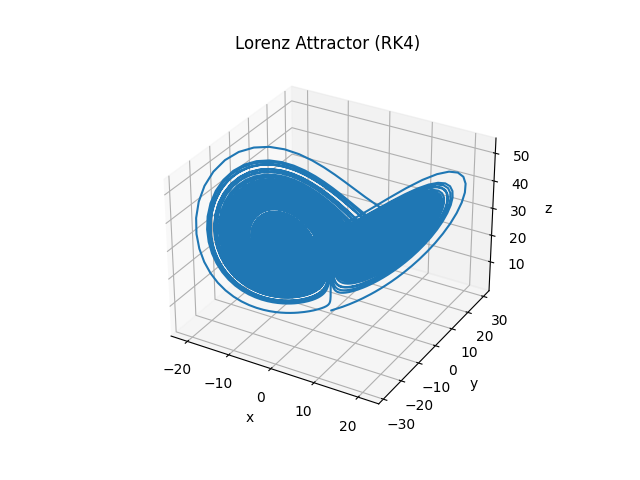
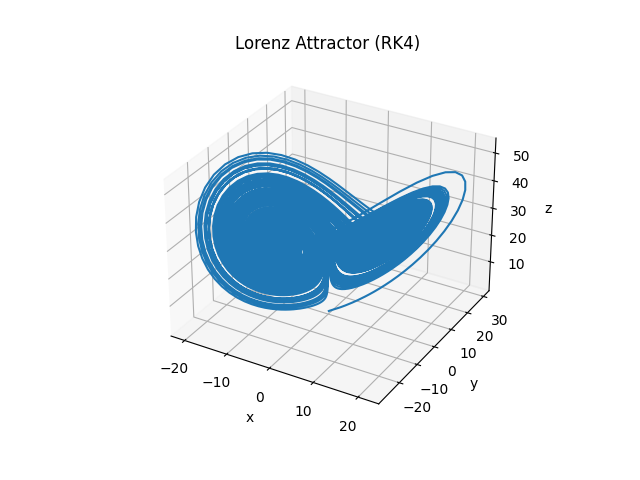
Works

diff --git a/Lorenz/LorenzPy.py b/Lorenz/LorenzPy.py
@@ -7,6 +7,7 @@ import matplotlib.pyplot as plt
 from mpl_toolkits.mplot3d import Axes3D
 #from sympy.abc import x,y,z
 
+
 class LorenzAttractor:
 
     # Lorenz attractor equations
@@ -17,7 +18,8 @@ class LorenzAttractor:
         dotZ = x*y - beta*z         # z' = x*y-beta*z
         return dotX, dotY, dotZ
 
-    # using scipy.integrate (solve_ivp) 
+    # Using scipy.integrate (solve_ivp) ==================================================================================================
+
     def OdeLorenz(self,x0,y0,z0, tmax,n, sigma, beta, rho,WIDTH, HEIGHT, DPI): 
         nSol = solve_ivp(self.Lorenz, (0,tmax), (x0,y0,z0), args = (sigma, beta, rho), dense_output=True)
         t = np.linspace(0, tmax,n)
@@ -40,7 +42,7 @@ class LorenzAttractor:
         plt.savefig('myLorenz.png', dpi=DPI)
         plt.show()      
         
-    # Runge-Kutta 4th order
+    # Runge-Kutta 4th order =============================================================================================================
 
     def L4rk(self,x,y,z, sigma, beta, rho):
         dotX = sigma * (y - x)      # x' = sigma*(y-x)
@@ -48,33 +50,72 @@ class LorenzAttractor:
         dotZ = x*y - beta*z         # z' = x*y-beta*z
         return dotX, dotY, dotZ
   
-    def Rk4(self,h,N,sigma, beta, rho):
-        xs = np.empty((N+1,))
-        ys = np.empty((N+1,))
-        zs = np.empty((N+1,))
+    def Euler(self,h,N,sigma, beta, rho):
+        xe = np.empty((N+1,))
+        ye = np.empty((N+1,))
+        ze = np.empty((N+1,))
 
-        xs[0], ys[0], zs[0] = (0.1,0.1,0.1)
+        xe[0], ye[0], ze[0] = (0.1,0.1,0.1)
 
         for i in range(N):
-          x_dot, y_dot, z_dot = self.L4rk(xs[i], ys[i], zs[i],sigma, beta, rho)
-          xs[i+1] = xs[i] + (x_dot*h)
-          ys[i+1] = ys[i] + (y_dot*h)
-          zs[i+1] = zs[i] + (z_dot*h)
+          x_dot, y_dot, z_dot = self.L4rk(xe[i], ye[i], ze[i],sigma, beta, rho)
+          xe[i+1] = xe[i] + (x_dot*h)
+          ye[i+1] = ye[i] + (y_dot*h)
+          ze[i+1] = ze[i] + (z_dot*h)
 
         fig = plt.figure()
         ax = fig.gca(projection = '3d')
 
-        ax.plot(xs, ys, zs)
+        ax.plot(xe, ye, ze)
+        ax.set_xlabel('x')
+        ax.set_ylabel('y')
+        ax.set_zlabel('z')
+        ax.set_title('Lorenz Attractor (Euler)')
+        plt.savefig('LorenzEuler.png', dpi=100)
+        plt.show()
+        # 'https://www.youtube.com/watch?v=kAvJRF9BeiA'
+
+    # Euler Method ======================================================================================================================
+            
+    def RK4(self, N,h, sigma, beta,rho):
+        xrk4 = np.empty((N+1,)) # prealojamos
+        yrk4 = np.empty((N+1,))
+        zrk4 = np.empty((N+1,))
+
+        xrk4[0], yrk4[0], zrk4[0] = (0.1,0.1,0.1)
+
+        for i in range(N):
+          x_dot, y_dot, z_dot = self.L4rk(xrk4[i],  yrk4[i], zrk4[i],sigma, beta, rho)
+         
+          k11 = x_dot
+          k21 = x_dot + 0.5*h*k11
+          k31 = x_dot + 0.5*h*k21
+          k41 = x_dot +h*k31
+          xrk4[i+1] = xrk4[i] + (h/6)*(k11 + 2*k21 + 2*k31 + k41)
+          
+          k12 = y_dot
+          k22 = y_dot + 0.5*h*k12
+          k32 = y_dot + 0.5*h*k22
+          k42 = y_dot +h*k32
+          yrk4[i+1] = yrk4[i] + (h/6)*(k12 + 2*k22 + 2*k32 + k42)
+          
+          k13 = z_dot
+          k23 = z_dot + 0.5*h*k13
+          k33 = z_dot + 0.5*h*k23
+          k43 = z_dot +h*k33
+          zrk4[i+1] = zrk4[i] + (h/6)*(k13 + 2*k23 + 2*k33 + k43)
+
+        fig = plt.figure()
+        ax = fig.gca(projection = '3d')
+
+        ax.plot(xrk4,yrk4,zrk4)
         ax.set_xlabel('x')
         ax.set_ylabel('y')
         ax.set_zlabel('z')
         ax.set_title('Lorenz Attractor (RK4)')
         plt.savefig('LorenzRK4.png', dpi=100)
         plt.show()
-
-            
-    def EulerLorenz():
-        pass
+        
 
 
 
@@ -90,7 +131,8 @@ def main():
     la = LorenzAttractor()
 
     la.OdeLorenz(x0,y0,z0, tmax,n, sigma, beta, rho,WIDTH, HEIGHT, DPI)
-    la.Rk4(h,N,sigma, beta, rho)
+    la.Euler(h,N,sigma, beta, rho)
+    la.RK4(N,h, sigma, beta,rho)
     
 
 if __name__ == "__main__":
